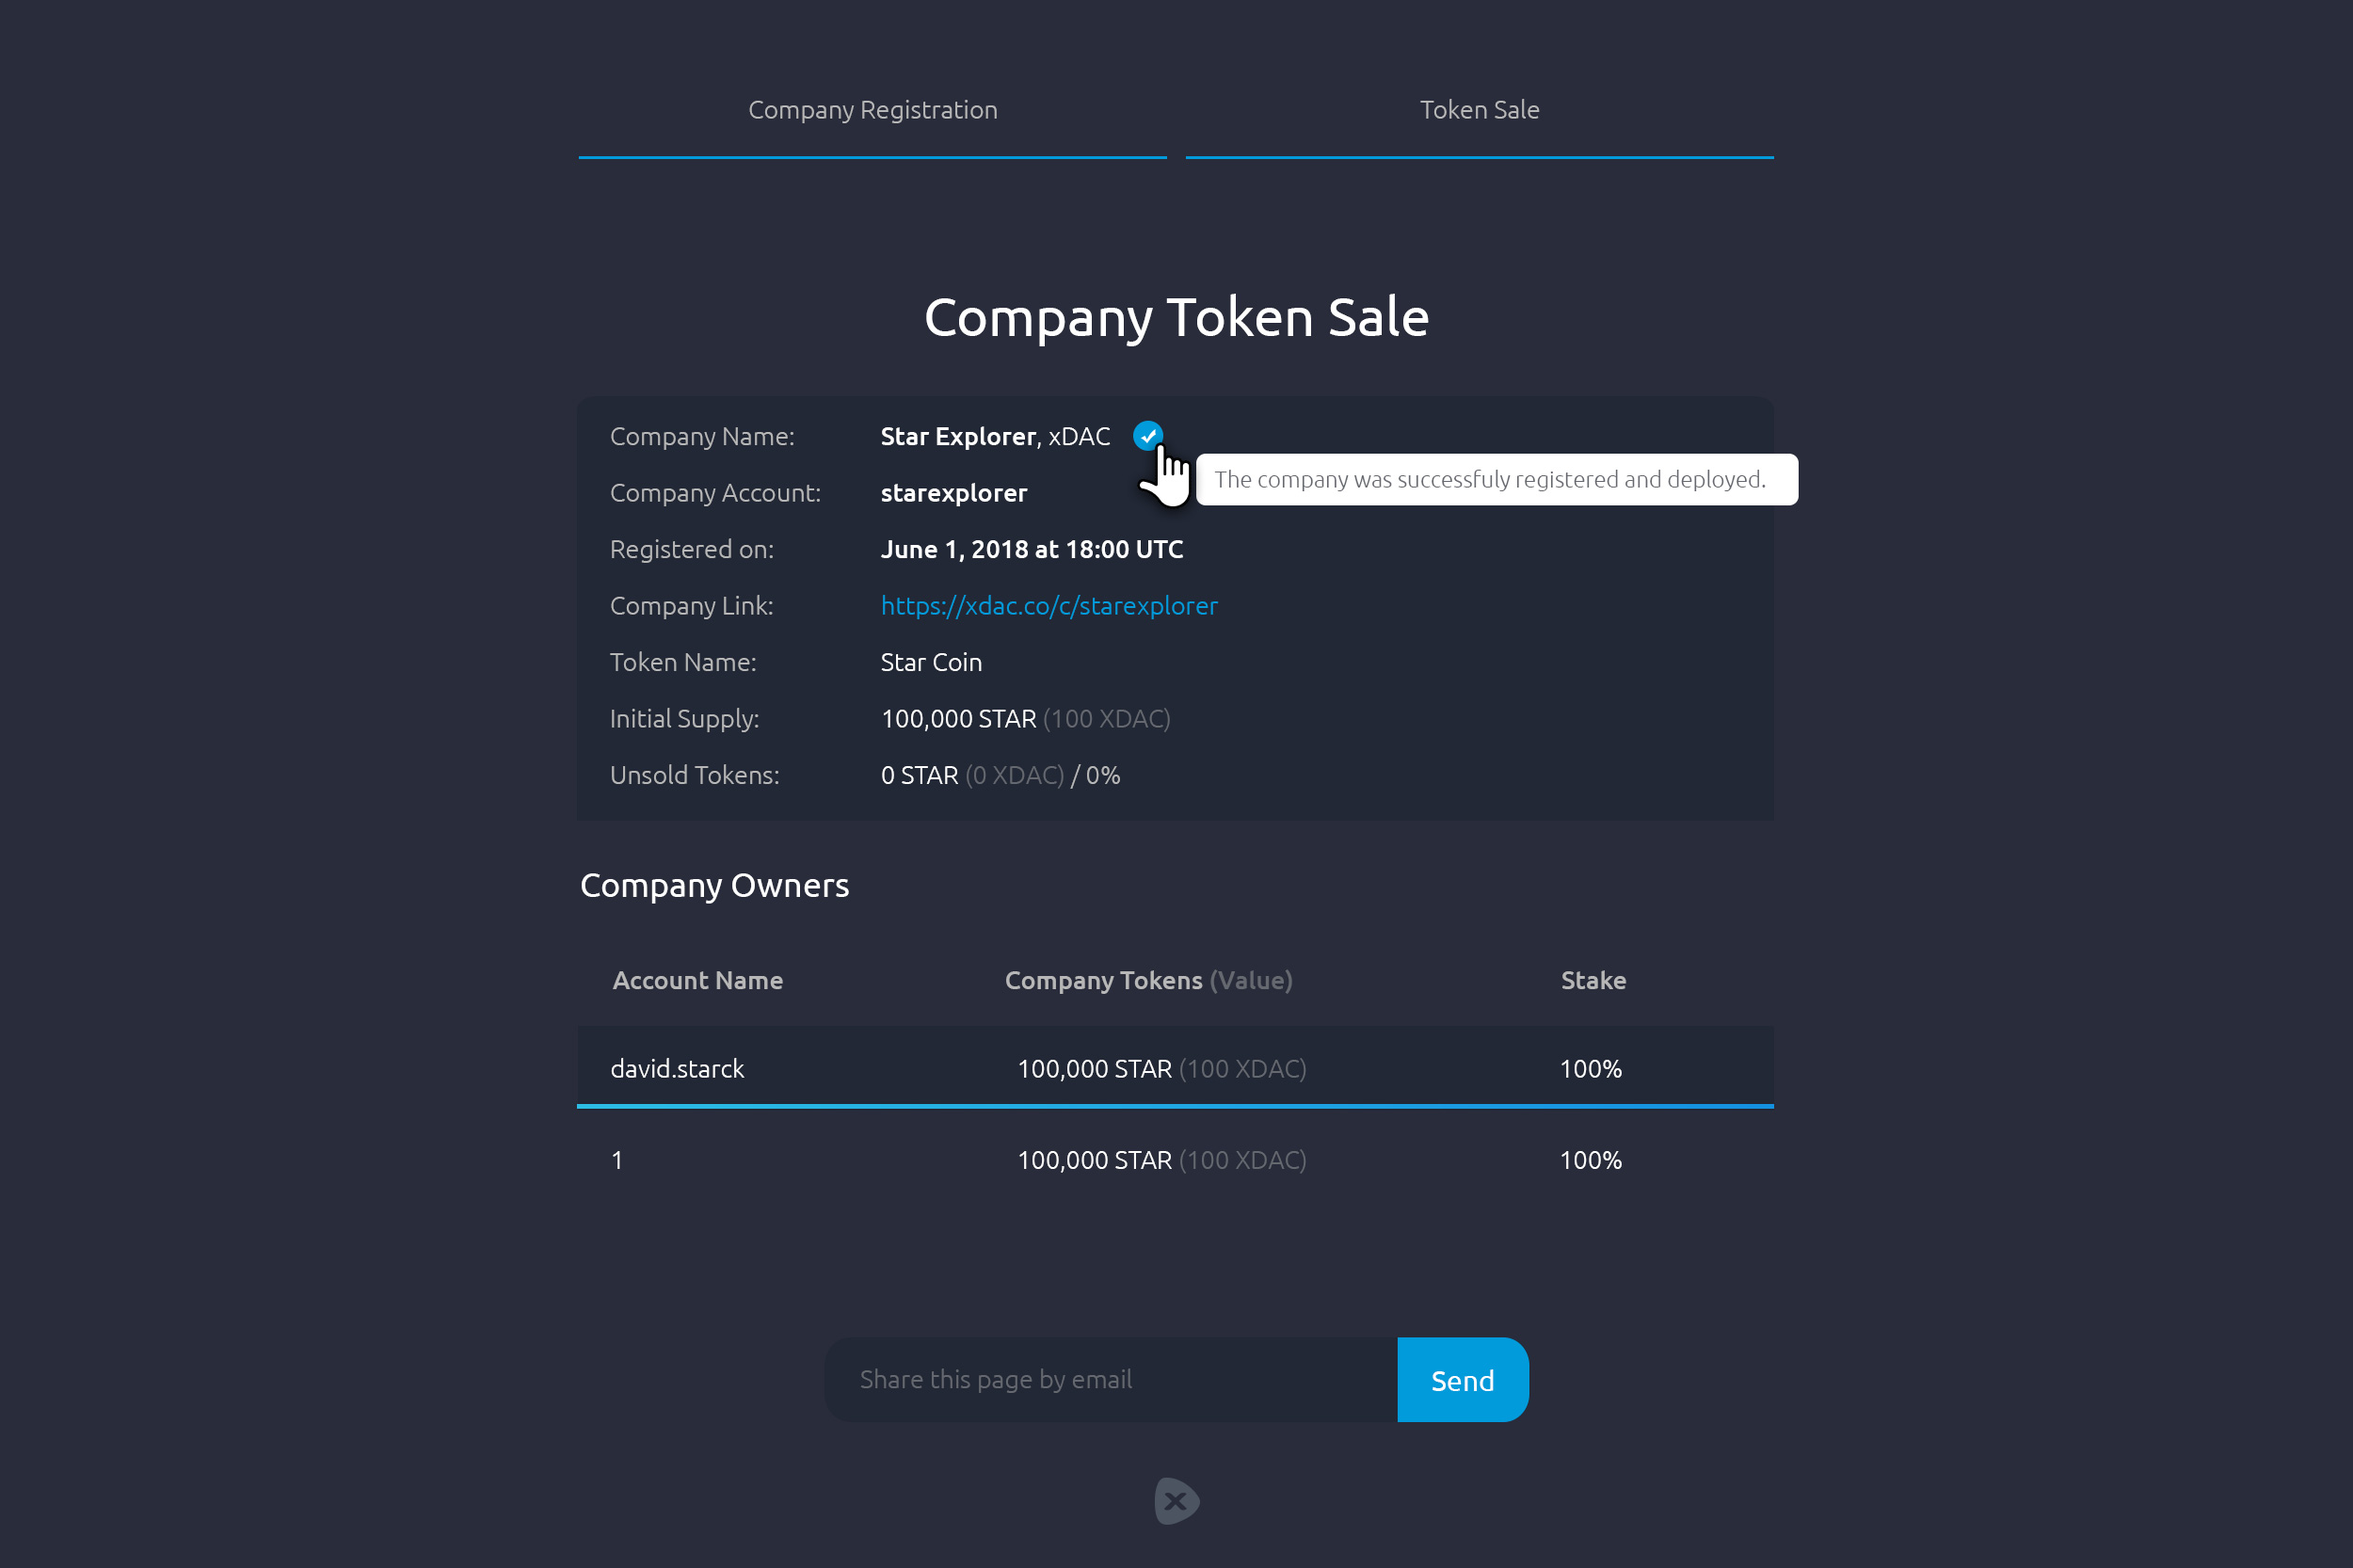
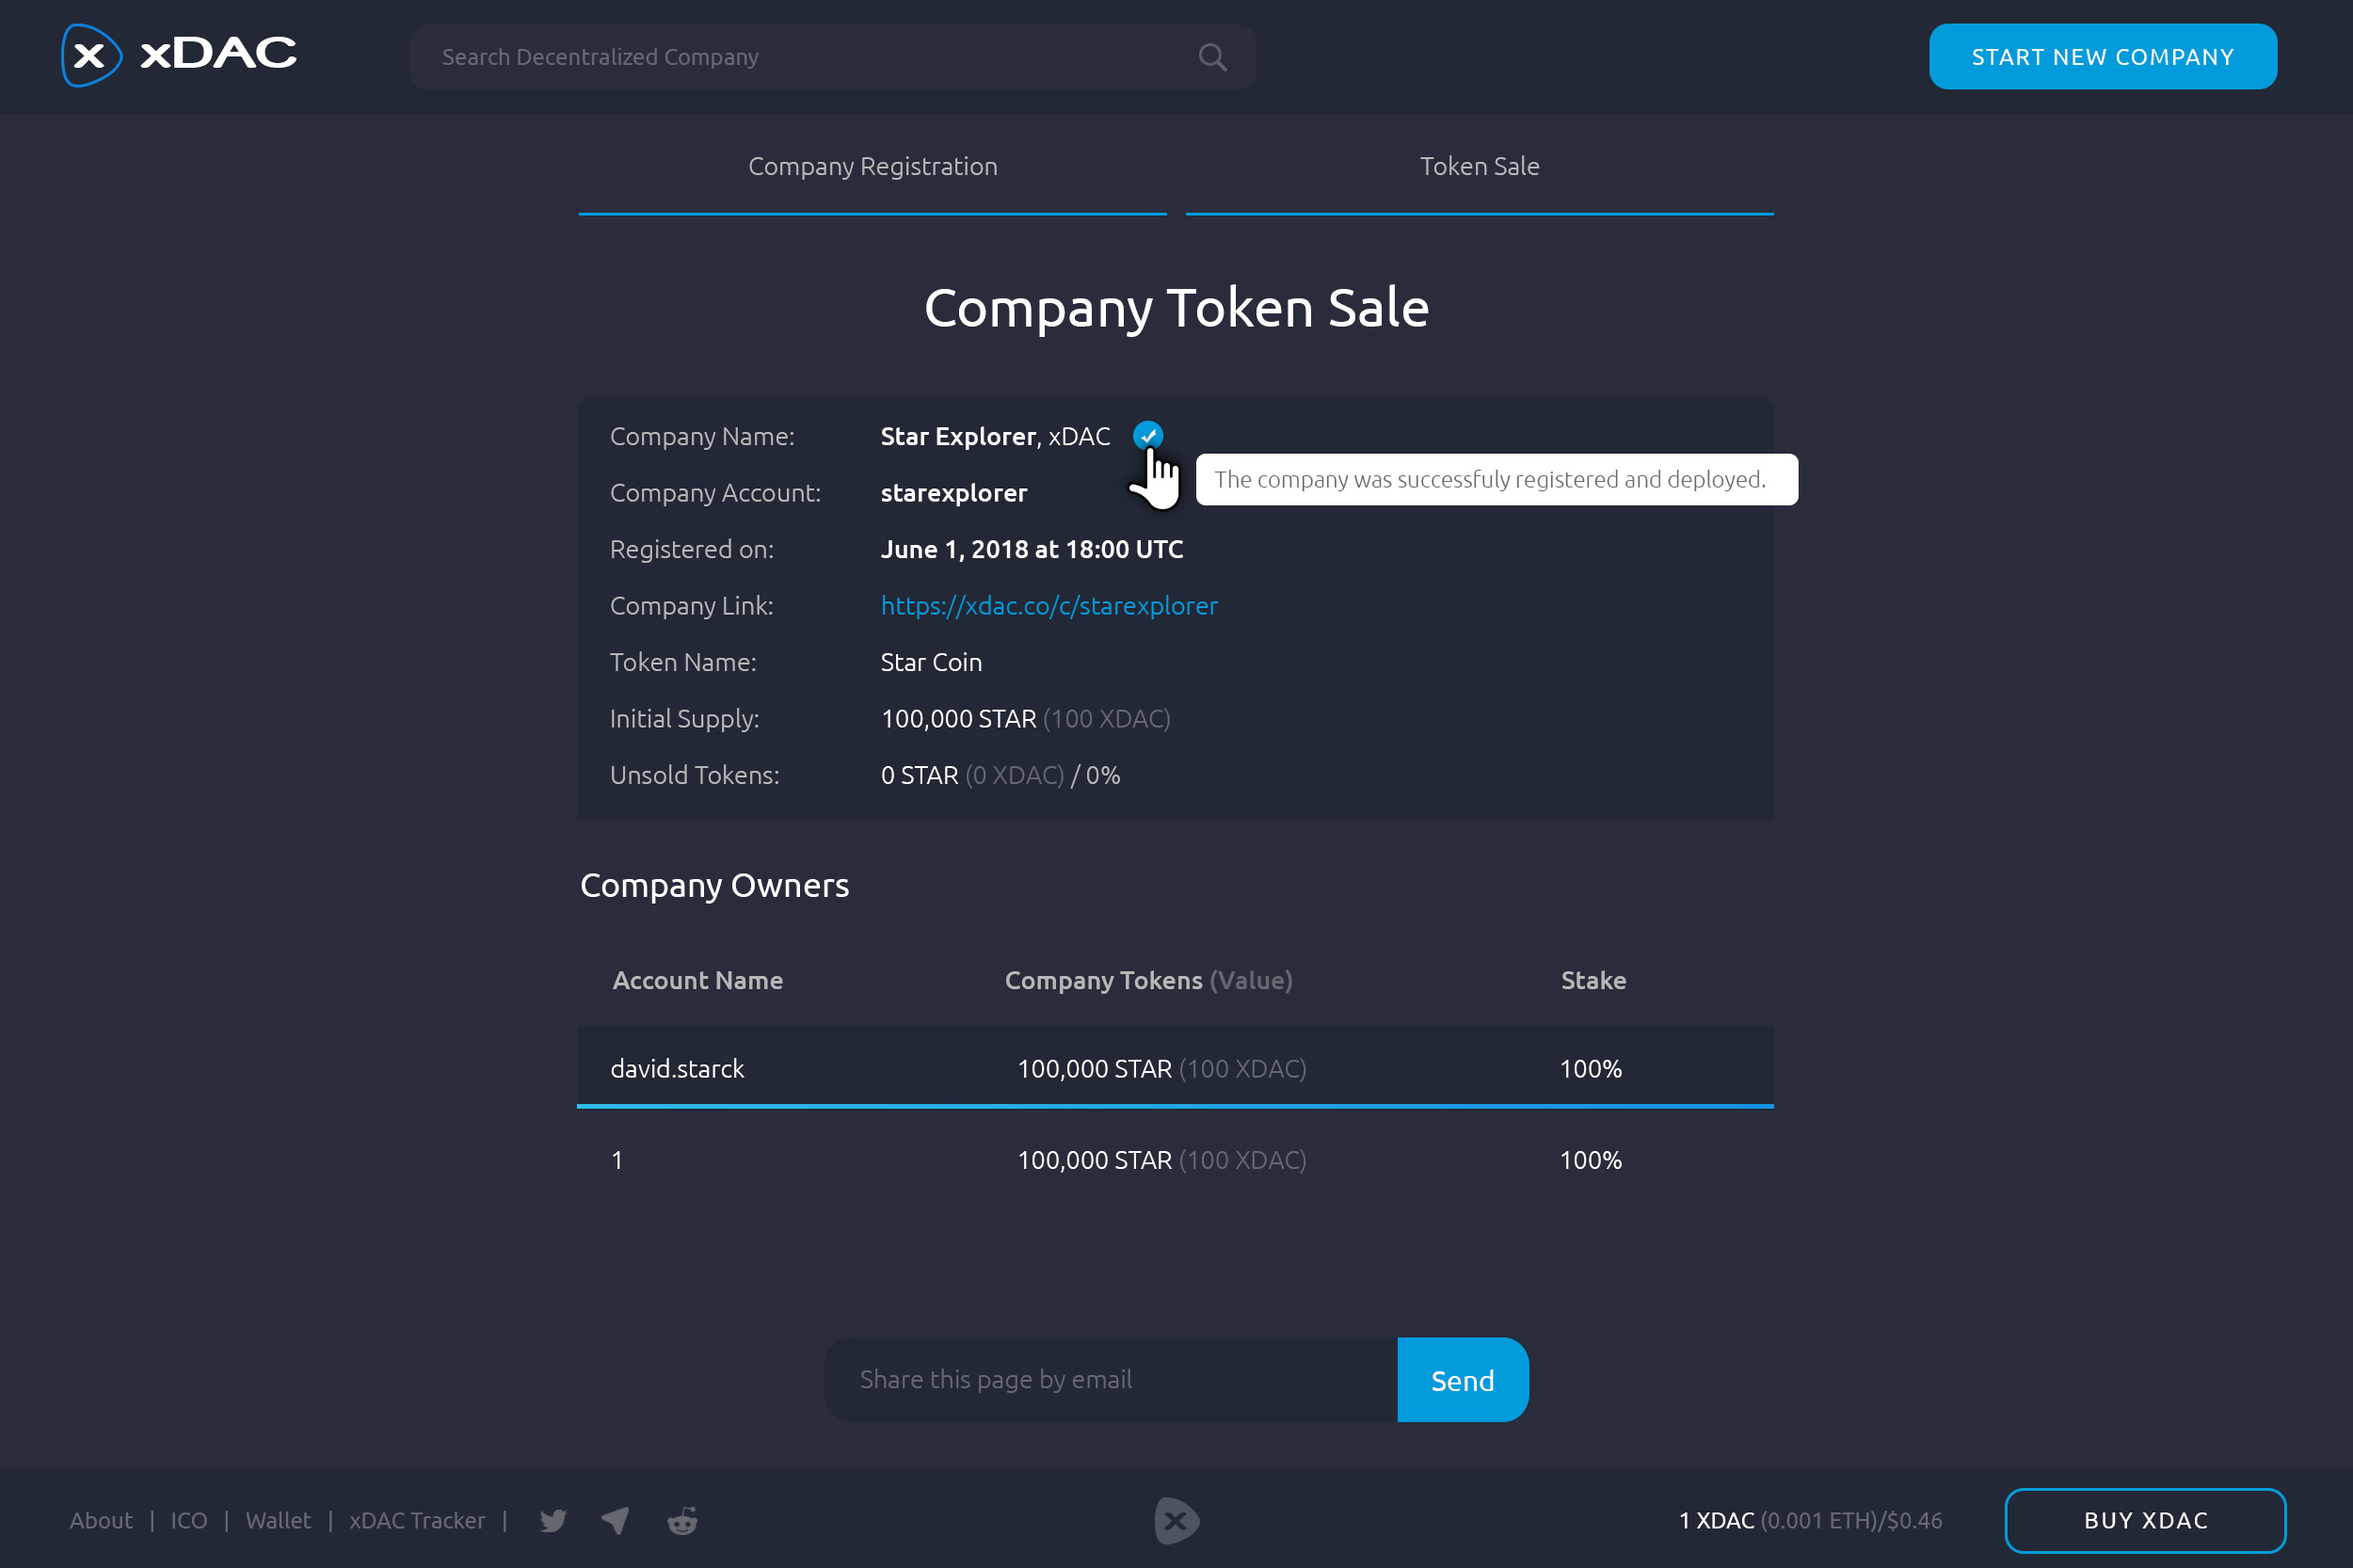
Buy offer and UI/UX updates

diff --git a/xDAC-Functional-Specification.md b/xDAC-Functional-Specification.md
@@ -24,9 +24,9 @@ Alpha version of the xDAC platform will provide access to the homepage with a li
 
 # 1. Home Page
 
-The xDAC homepage provides easy access to existing xDAC companies through the list in tile form and "search" option. The homepage offers selecting companies by token sale status (Active or Completed) of selection by company industry.
+The xDAC homepage provides easy access to existing xDAC companies through the list in form of tiles and "search" option. The homepage offers selecting companies by token sale status (Active or Completed) or by company industry.
 
-Header od the page hold button Start a new company. Button Buy XDAC is placed in the footer of the page along with social media links and links to About and ICO pages or xDAC network tracker and wallet.
+The header of the page holds button "Start new company". Button "Buy XDAC" is placed in the footer of the page along with social media links and links to About and ICO pages or xDAC network tracker and wallet.
 
 ![xDAC dApp flowchart Flowchart](/images/xDAC-homepage.jpg)
 
@@ -282,6 +282,8 @@ The company disposition of tokens is available until all equity tokens are sold.
 
 ![xDAC Buy Equity Tokens](/images/xDAC-Token-Sale-50p.jpg)
 
+![xDAC Buy Equity Tokens](/images/xDAC-Token-Sale-buy-offer.jpg)
+
 ### 3.2.2.	Company sold 100% of equity tokens
 
 If the company sold 100% of initial supply, Buy Equity Tokens option is no longer available. This round of token sale is closed. 
@@ -313,6 +315,10 @@ In case investment was declined, decline percentage will decrease to -40%.
 After investment approval reaches 51% of votes or more, investment is accepted and transferred from a core contract to company contract which distributes investment between account and liability fund.
 
 Declined investments by 51% of votes or more will be refunded from core contract back to account of the investor.
+
+### 3.2.4.	Buy offer canceled by investor
+
+![xDAC Buy Equity Tokens](/images/xDAC-Token-Sale-cancel-offer.jpg)
 
 ### 3.2.5.	Company has unsold tokens
 
